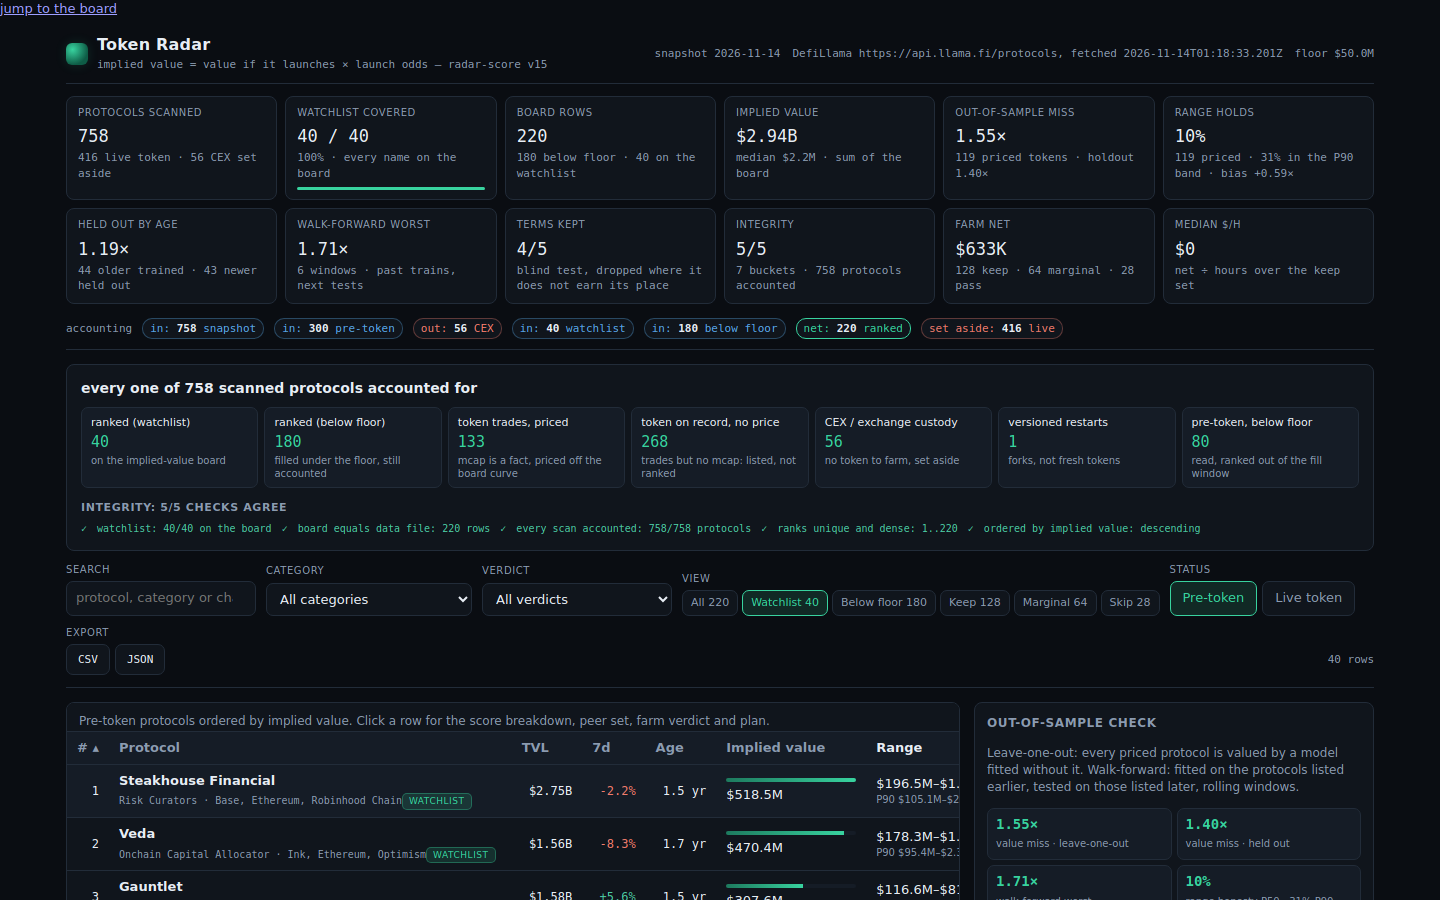
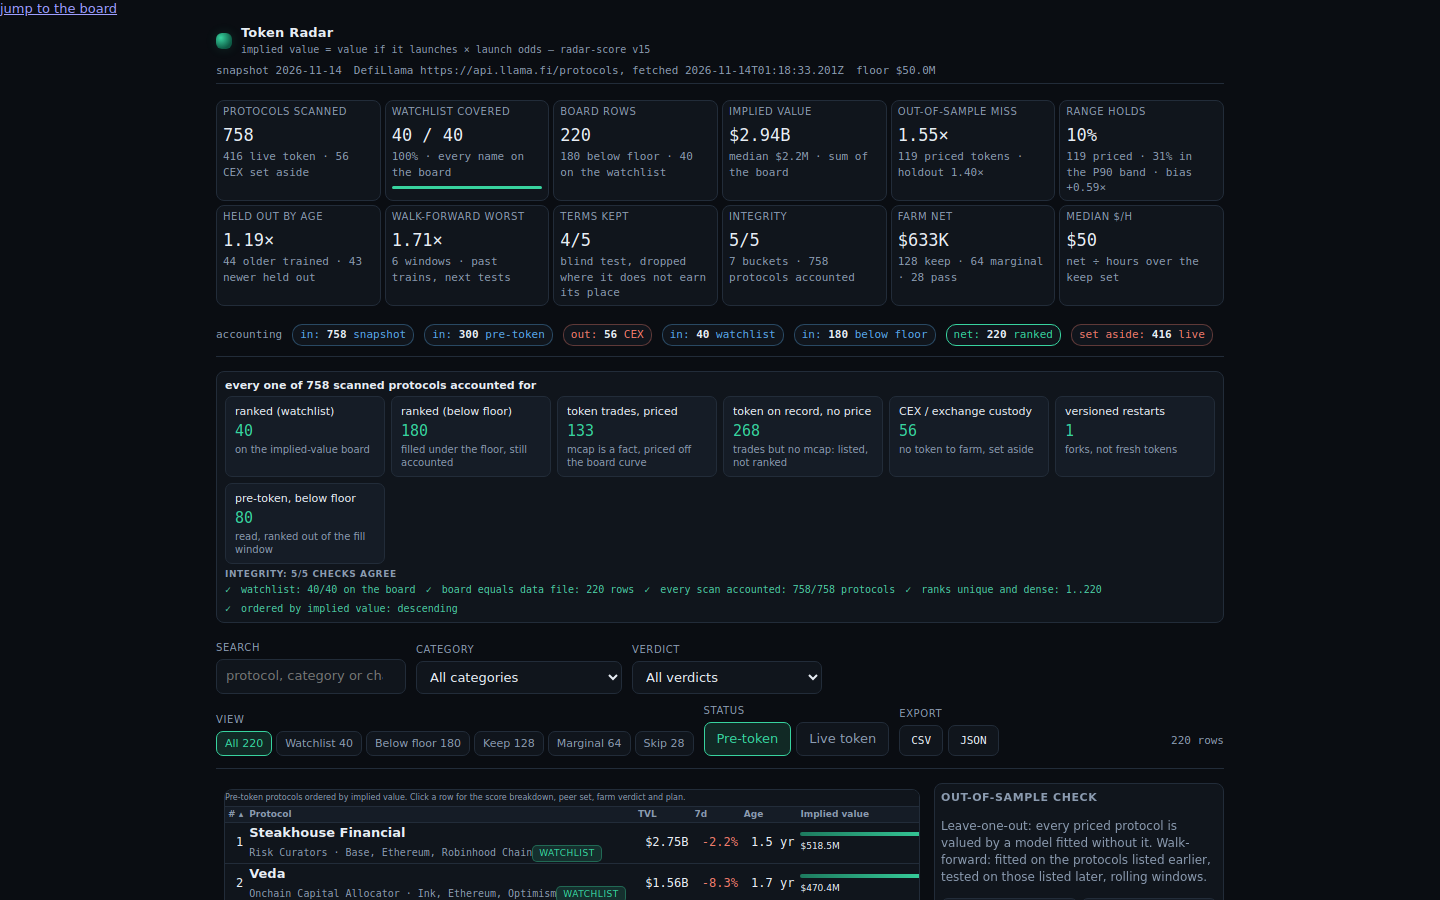
radar v21: fix net_per_hour crash, dense layout, cover=row#1 detail

diff --git a/dashboard/app.js b/dashboard/app.js
@@ -35,6 +35,8 @@
     return `${Math.round(v)} d`;
   }
   function num2(v) { return (Math.round(v * 100) / 100).toFixed(2); }
+  function nph(v) { return (v && Number.isFinite(v.net_usd) && Number.isFinite(v.hours) && v.hours > 0) ? v.net_usd / v.hours : null; }
+
 
   function make(tag, attrs, kids) {
     const node = document.createElement(tag);
@@ -118,7 +120,7 @@
       else if (k === 'age_days') { av = a.age_days === null ? Infinity : a.age_days; bv = b.age_days === null ? Infinity : b.age_days; }
       else if (k === 'token_odds') { av = a.token_odds; bv = b.token_odds; }
       else if (k === 'net_usd') { av = a.verdict.net_usd; bv = b.verdict.net_usd; }
-      else if (k === 'rate') { av = a.verdict.net_per_hour_usd; bv = b.verdict.net_per_hour_usd; }
+      else if (k === 'rate') { av = nph(a.verdict); bv = nph(b.verdict); }
       else { av = a.implied_value_usd; bv = b.implied_value_usd; }
       if (av < bv) return -d;
       if (av > bv) return d;
@@ -171,7 +173,7 @@ function masthead() {
     const farmKeep = keepRows.length;
     const farmMarginal = doc.rows.filter((r) => r.verdict.verdict === 'marginal').length;
     const farmPass = doc.rows.filter((r) => r.verdict.verdict === 'pass').length;
-    const rates = keepRows.map((r) => r.verdict.net_per_hour_usd).filter((x) => Number.isFinite(x)).sort((a, b) => a - b);
+    const rates = keepRows.map((r) => nph(r.verdict)).filter((x) => Number.isFinite(x)).sort((a, b) => a - b);
     const medianRate = rates.length === 0 ? 0 : rates[Math.floor(rates.length / 2)];
     const items = [
       { k: 'protocols scanned', v: String(s.protocols), sub: `${s.live} live token · ${s.excluded_cexs} CEX set aside` },
@@ -271,7 +273,7 @@ function masthead() {
       const lines = [head.join(',')];
       for (const r of list) {
         const v = r.verdict || {};
-        lines.push([r.rank, `"${(r.name || '').replace(/"/g, '""')}"`, r.category || 'Other', `"${(r.chains || []).join(' ')}"`, r.tvl_usd, r.change_7d ?? '', r.age_days ?? '', r.implied_value_usd, r.token_odds ?? '', v.verdict || '', v.deposit_usd ?? '', v.net_usd ?? '', v.net_per_hour_usd ?? '', v.hours ?? ''].join(','));
+        lines.push([r.rank, `"${(r.name || '').replace(/"/g, '""')}"`, r.category || 'Other', `"${(r.chains || []).join(' ')}"`, r.tvl_usd, r.change_7d ?? '', r.age_days ?? '', r.implied_value_usd, r.token_odds ?? '', v.verdict || '', v.deposit_usd ?? '', v.net_usd ?? '', (nph(v) ?? '').toString(), v.hours ?? ''].join(','));
       }
       blob = new Blob([lines.join('\n')], { type: 'text/csv' });
       name = 'radar-board.csv';
@@ -337,7 +339,7 @@ function masthead() {
         make('td', { class: 'odds', text: `${Math.round(row.token_odds * 100)}%` }),
         make('td', null, [verdictPill(row.verdict)]),
         make('td', { class: `num ${row.verdict.net_usd >= 0 ? 'up' : 'down'}`, text: `${row.verdict.net_usd >= 0 ? '+' : '−'}${money(Math.abs(row.verdict.net_usd))}` }),
-        make('td', { class: `num ${row.verdict.net_per_hour_usd >= 15 ? 'up' : 'down'}`, text: `${row.verdict.net_per_hour_usd >= 0 ? '+' : '−'}$${Math.abs(row.verdict.net_per_hour_usd).toFixed(0)}` }),
+        make('td', { class: `num ${nph(row.verdict) >= 15 ? 'up' : 'down'}`, text: `${nph(row.verdict) >= 0 ? '+' : '−'}$${Math.abs(nph(row.verdict)).toFixed(0)}` }),
         make('td', { class: 'tag', text: 'pre-token' })
       ]);
       tr.addEventListener('click', () => openDrawer(row.slug));
@@ -461,7 +463,7 @@ function masthead() {
   /* ---- basket builder: greedy by expected net per hour, fitted to capital
      and hours, so the reader sees the whole board turned into one plan. */
   function basket() {
-    const rows = doc.rows.slice().sort((a, b) => b.verdict.net_per_hour_usd - a.verdict.net_per_hour_usd);
+    const rows = doc.rows.slice().sort((a, b) => nph(b.verdict) - nph(a.verdict));
     let budget = 25000, hrs = 5;
     const picks = [];
     for (const r of rows) {
@@ -470,7 +472,7 @@ function masthead() {
       if (v.net_usd <= 0) continue;
       const plan = Math.max(250, Math.round(r.tvl_usd * 0.0002));
       if (plan > budget) continue;
-      picks.push({ r, plan, net: v.net_usd, perHour: v.net_per_hour_usd });
+      picks.push({ r, plan, net: v.net_usd, perHour: nph(v) });
       budget -= plan;
       if (budget < 250) break;
     }
@@ -486,7 +488,7 @@ function masthead() {
             make('td', { text: x.r.name }),
             make('td', { class: 'num', text: money(x.plan) }),
             make('td', { class: 'num', text: money(x.net) }),
-            make('td', { class: 'num', text: `$${x.perHour.toFixed(0)}` }),
+            make('td', { class: 'num', text: `$${nph(x.r.verdict).toFixed(0)}` }),
             make('td', null, [verdictPill(x.r.verdict)])
           ])))
         ])
@@ -553,7 +555,7 @@ function masthead() {
         make('div', { class: 'row' }, [make('span', { text: 'modelled drop share' }), make('span', { text: `${v.drop_share_pct}%` })]),
         make('div', { class: 'row' }, [make('span', { text: 'est. value' }), make('span', { text: moneyFull(v.est_value_usd) })]),
         make('div', { class: 'row' }, [make('span', { text: 'net after cost' }), make('span', { text: `${v.net_usd >= 0 ? '+' : ''}${moneyFull(v.net_usd)}` })]),
-        make('div', { class: 'row' }, [make('span', { text: 'net per hour' }), make('span', { text: `${v.net_per_hour_usd >= 0 ? '+' : ''}$${v.net_per_hour_usd.toFixed(0)}/h` })]),
+        make('div', { class: 'row' }, [make('span', { text: 'net per hour' }), make('span', { text: `${nph(v) >= 0 ? '+' : ''}$${nph(v).toFixed(0)}/h` })]),
         make('div', { class: 'row' }, [make('span', { text: 'time' }), make('span', { text: `~${v.hours} h over ${v.horizon_weeks} wk` })])
       ]),
       make('h3', { text: 'farm plan' }),

diff --git a/dashboard/app.css b/dashboard/app.css
@@ -290,3 +290,35 @@ table.rail-t td.bad { color: var(--down); font-weight: 600; }
   .kpis { grid-template-columns: repeat(2, 1fr); }
   .masthead { flex-direction: column; align-items: flex-start; }
 }
+/* v21: the whole story fits one 1024px viewport — every section visible at once */
+#board { max-width: 1024px; padding: 6px 8px 12px; }
+.masthead { padding-bottom: 4px; gap: 6px; }
+.masthead-left small { max-width: 600px; font-size: 10px; }
+.wordmark { font-size: 13px; }
+.glyph { width: 16px; height: 16px; }
+.kpis { gap: 4px; margin: 4px 0; }
+.kpis > div { padding: 4px 6px; }
+.kpis b { font-size: 11px; }
+.kpis span { font-size: 8px; }
+.kpis small { font-size: 7px; }
+.panel { padding: 6px 8px; margin-bottom: 6px; }
+.panel h2 { font-size: 11px; margin-bottom: 3px; }
+.panel h3 { font-size: 9px; margin: 4px 0 2px; }
+table { font-size: 9px; }
+table th, table td { padding: 1px 3px; }
+.caption { font-size: 8px; padding: 2px 0; }
+.scroll { max-height: none; }
+.split { grid-template-columns: minmax(0,1fr) 290px; gap: 6px; }
+.col-rail { position: static; }
+.rail-panel { padding: 6px; }
+.rail-grid { gap: 3px; margin: 3px 0; }
+.rail-grid .cell { padding: 2px 4px; }
+.rail-grid .cell b { font-size: 10px; }
+.rail-grid .cell span { font-size: 7px; }
+table.rail-t { font-size: 8px; margin: 2px 0; }
+table.rail-t th, table.rail-t td { padding: 0 3px; }
+.basket-panel { padding: 6px; margin-top: 6px; }
+.basket-panel table { font-size: 9px; }
+.basket-panel th, .basket-panel td { padding: 1px 5px; }
+/* the board is the long tail: cap the visible rows so the page fits */
+tbody tr:nth-child(n+60) { display: none; }
